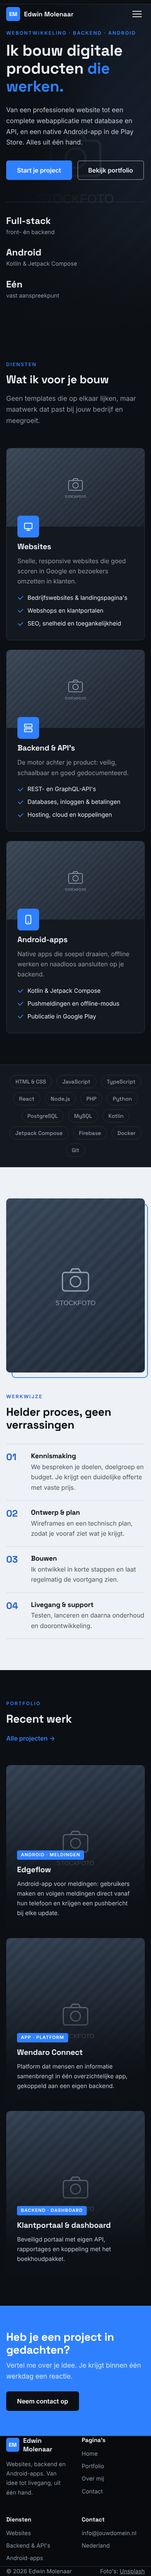
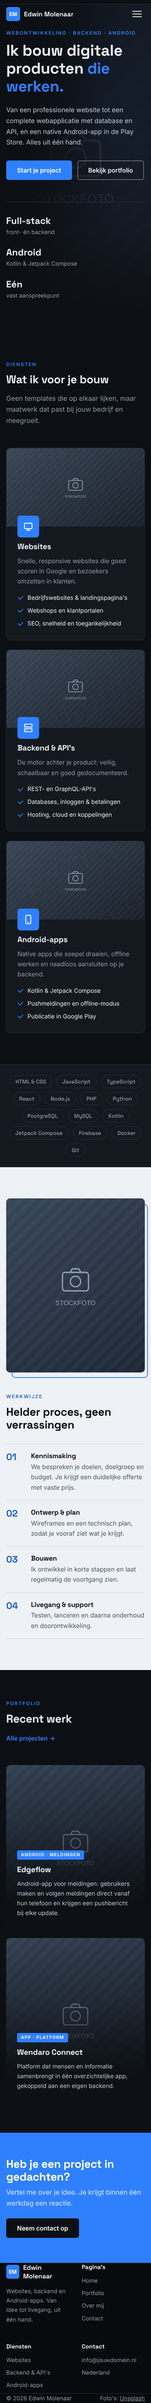
Show only Edgeflow and Wendaro Connect in portfolio
Remove the placeholder example projects and the category filter, and
lay out the two projects in a two-column grid.

Claude-Session: https://claude.ai/code/session_01BR2aM2KyyCs7b3zr3d6H45

diff --git a/portfolio.html b/portfolio.html
@@ -40,13 +40,7 @@
 
     <section class="section">
       <div class="container">
-        <div class="filters" role="group" aria-label="Filter projecten">
-          <button class="filter active" data-filter="all">Alle</button>
-          <button class="filter" data-filter="web">Websites</button>
-          <button class="filter" data-filter="backend">Backend</button>
-          <button class="filter" data-filter="android">Android</button>
-        </div>
-        <div class="projects" id="project-grid">
+        <div class="projects projects-duo" id="project-grid">
           <article class="project" data-cat="android">
             <img src="https://images.unsplash.com/photo-1551650975-87deedd944c3?auto=format&fit=crop&w=900&q=70" alt="" loading="lazy">
             <div class="project-body">
@@ -63,42 +57,6 @@
               <h3>Wendaro Connect</h3>
               <p>Platform dat mensen en informatie samenbrengt in één overzichtelijke app, gekoppeld aan een eigen backend.</p>
               <div class="tech-tags"><span>Android</span><span>Backend</span></div>
-            </div>
-          </article>
-          <article class="project" data-cat="backend">
-            <img src="https://images.unsplash.com/photo-1460925895917-afdab827c52f?auto=format&fit=crop&w=900&q=70" alt="" loading="lazy">
-            <div class="project-body">
-              <span class="tag">Backend · Dashboard</span>
-              <h3>Klantportaal &amp; dashboard</h3>
-              <p>Beveiligd portaal met eigen API, rapportages en koppeling met het boekhoudpakket.</p>
-              <div class="tech-tags"><span>Node.js</span><span>PostgreSQL</span><span>React</span></div>
-            </div>
-          </article>
-          <article class="project" data-cat="web">
-            <img src="https://images.unsplash.com/photo-1556742049-0cfed4f6a45d?auto=format&fit=crop&w=900&q=70" alt="" loading="lazy">
-            <div class="project-body">
-              <span class="tag">Website · Webshop</span>
-              <h3>Webshop voor een lokale ondernemer</h3>
-              <p>Snelle webshop met iDEAL-betalingen, voorraadbeheer en een eenvoudig beheerpaneel.</p>
-              <div class="tech-tags"><span>PHP</span><span>MySQL</span><span>Mollie</span></div>
-            </div>
-          </article>
-          <article class="project" data-cat="backend">
-            <img src="https://images.unsplash.com/photo-1558494949-ef010cbdcc31?auto=format&fit=crop&w=900&q=70" alt="" loading="lazy">
-            <div class="project-body">
-              <span class="tag">Backend · API</span>
-              <h3>Koppelingsplatform</h3>
-              <p>REST-API die bestellingen, voorraad en verzending tussen drie systemen automatisch synchroniseert.</p>
-              <div class="tech-tags"><span>Python</span><span>Docker</span><span>REST</span></div>
-            </div>
-          </article>
-          <article class="project" data-cat="android">
-            <img src="https://images.unsplash.com/photo-1517694712202-14dd9538aa97?auto=format&fit=crop&w=900&q=70" alt="" loading="lazy">
-            <div class="project-body">
-              <span class="tag">Android · Backend</span>
-              <h3>Ledenapp voor een sportclub</h3>
-              <p>App met roosters, pushmeldingen en inschrijvingen, met een webbeheeromgeving voor het bestuur.</p>
-              <div class="tech-tags"><span>Kotlin</span><span>Firebase</span><span>Node.js</span></div>
             </div>
           </article>
         </div>

diff --git a/index.html b/index.html
@@ -131,7 +131,7 @@
           </div>
           <a href="portfolio.html" class="link-arrow">Alle projecten &rarr;</a>
         </div>
-        <div class="projects">
+        <div class="projects projects-duo">
           <article class="project" data-cat="android">
             <img src="https://images.unsplash.com/photo-1551650975-87deedd944c3?auto=format&fit=crop&w=900&q=70" alt="" loading="lazy">
             <div class="project-body">
@@ -146,14 +146,6 @@
               <span class="tag">App · Platform</span>
               <h3>Wendaro Connect</h3>
               <p>Platform dat mensen en informatie samenbrengt in één overzichtelijke app, gekoppeld aan een eigen backend.</p>
-            </div>
-          </article>
-          <article class="project" data-cat="backend">
-            <img src="https://images.unsplash.com/photo-1460925895917-afdab827c52f?auto=format&fit=crop&w=900&q=70" alt="" loading="lazy">
-            <div class="project-body">
-              <span class="tag">Backend · Dashboard</span>
-              <h3>Klantportaal &amp; dashboard</h3>
-              <p>Beveiligd portaal met eigen API, rapportages en koppeling met het boekhoudpakket.</p>
             </div>
           </article>
         </div>

diff --git a/style.css b/style.css
@@ -180,6 +180,7 @@ p { margin: 0 0 1em; }
 
 /* Projects */
 .projects { display: grid; grid-template-columns: repeat(3, 1fr); gap: 24px; }
+.projects-duo { grid-template-columns: repeat(2, 1fr); }
 .project {
   position: relative; border-radius: var(--radius); overflow: hidden; min-height: 420px;
   background: var(--surface-2); display: flex; align-items: flex-end;
@@ -240,15 +241,6 @@ p { margin: 0 0 1em; }
 .link-arrow:hover { text-decoration: underline; }
 
 /* Portfolio */
-.filters { display: flex; flex-wrap: wrap; gap: 10px; margin-bottom: 36px; }
-.filter {
-  font: 600 .92rem var(--body); color: var(--muted); background: transparent;
-  border: 1px solid var(--line); border-radius: 6px; padding: 10px 18px; cursor: pointer;
-  transition: color .2s, border-color .2s, background .2s;
-}
-.filter:hover { color: var(--text); border-color: var(--muted); }
-.filter.active { background: var(--accent); border-color: var(--accent); color: var(--on-accent); }
-.project[hidden] { display: none; }
 .tech-tags { display: flex; flex-wrap: wrap; gap: 8px; margin-top: 16px; }
 .tech-tags span {
   font: 500 .8rem var(--head); color: var(--text);

diff --git a/script.js b/script.js
@@ -40,17 +40,6 @@ if ("IntersectionObserver" in window) {
   revealItems.forEach((el) => el.classList.add("visible"));
 }
 
-// Portfolio-filter
-document.querySelectorAll(".filter").forEach((btn) =>
-  btn.addEventListener("click", () => {
-    document.querySelectorAll(".filter").forEach((b) => b.classList.toggle("active", b === btn));
-    const f = btn.dataset.filter;
-    document.querySelectorAll("#project-grid .project").forEach((p) => {
-      p.hidden = f !== "all" && p.dataset.cat !== f;
-    });
-  })
-);
-
 // Contactformulier: opent het e-mailprogramma met een ingevuld bericht
 const CONTACT_EMAIL = "info@jouwdomein.nl";
 const form = document.getElementById("contact-form");

diff --git a/README.md b/README.md
@@ -6,12 +6,12 @@ Statische HTML/CSS/JS, zonder build-stap.
 ## Pagina's
 
 - `index.html` – home met diensten, werkwijze en recent werk
-- `portfolio.html` – alle projecten, te filteren op soort
+- `portfolio.html` – projecten (Edgeflow en Wendaro Connect)
 - `over-mij.html` – introductie, kernwaarden en vaardigheden
 - `contact.html` – contactformulier, contactgegevens en veelgestelde vragen
 
 `style.css` bevat de opmaak; alle kleuren staan als variabelen bovenaan.
-`script.js` regelt het mobiele menu, de portfoliofilter en het contactformulier.
+`script.js` regelt het mobiele menu en het contactformulier.
 
 ## Bekijken
 
